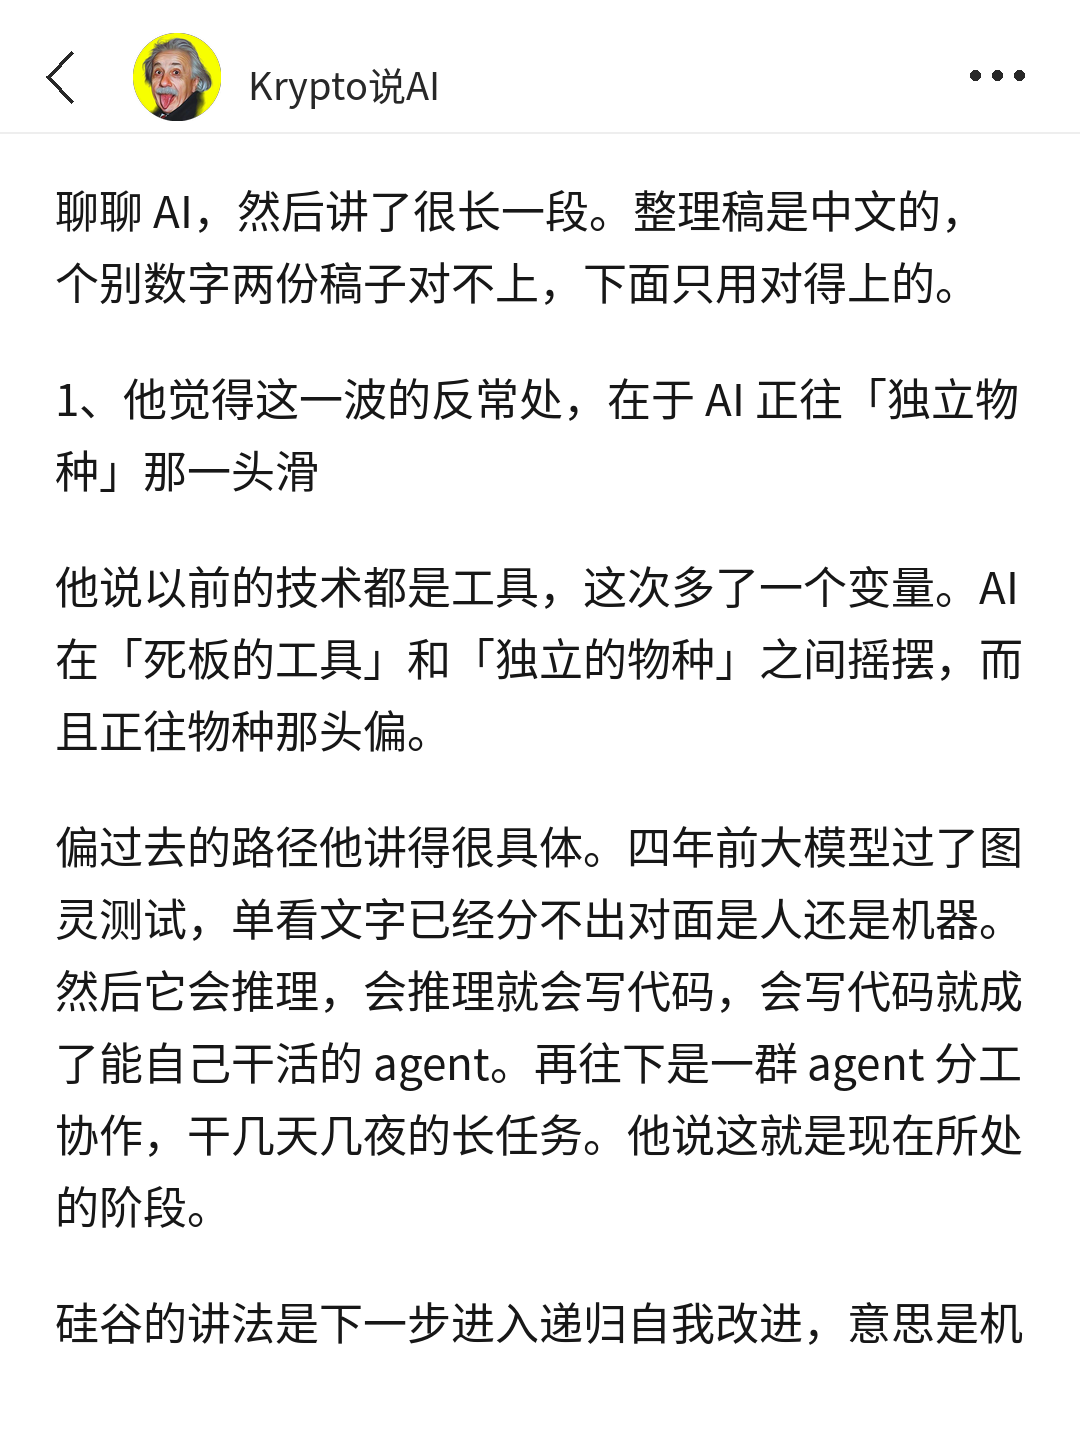
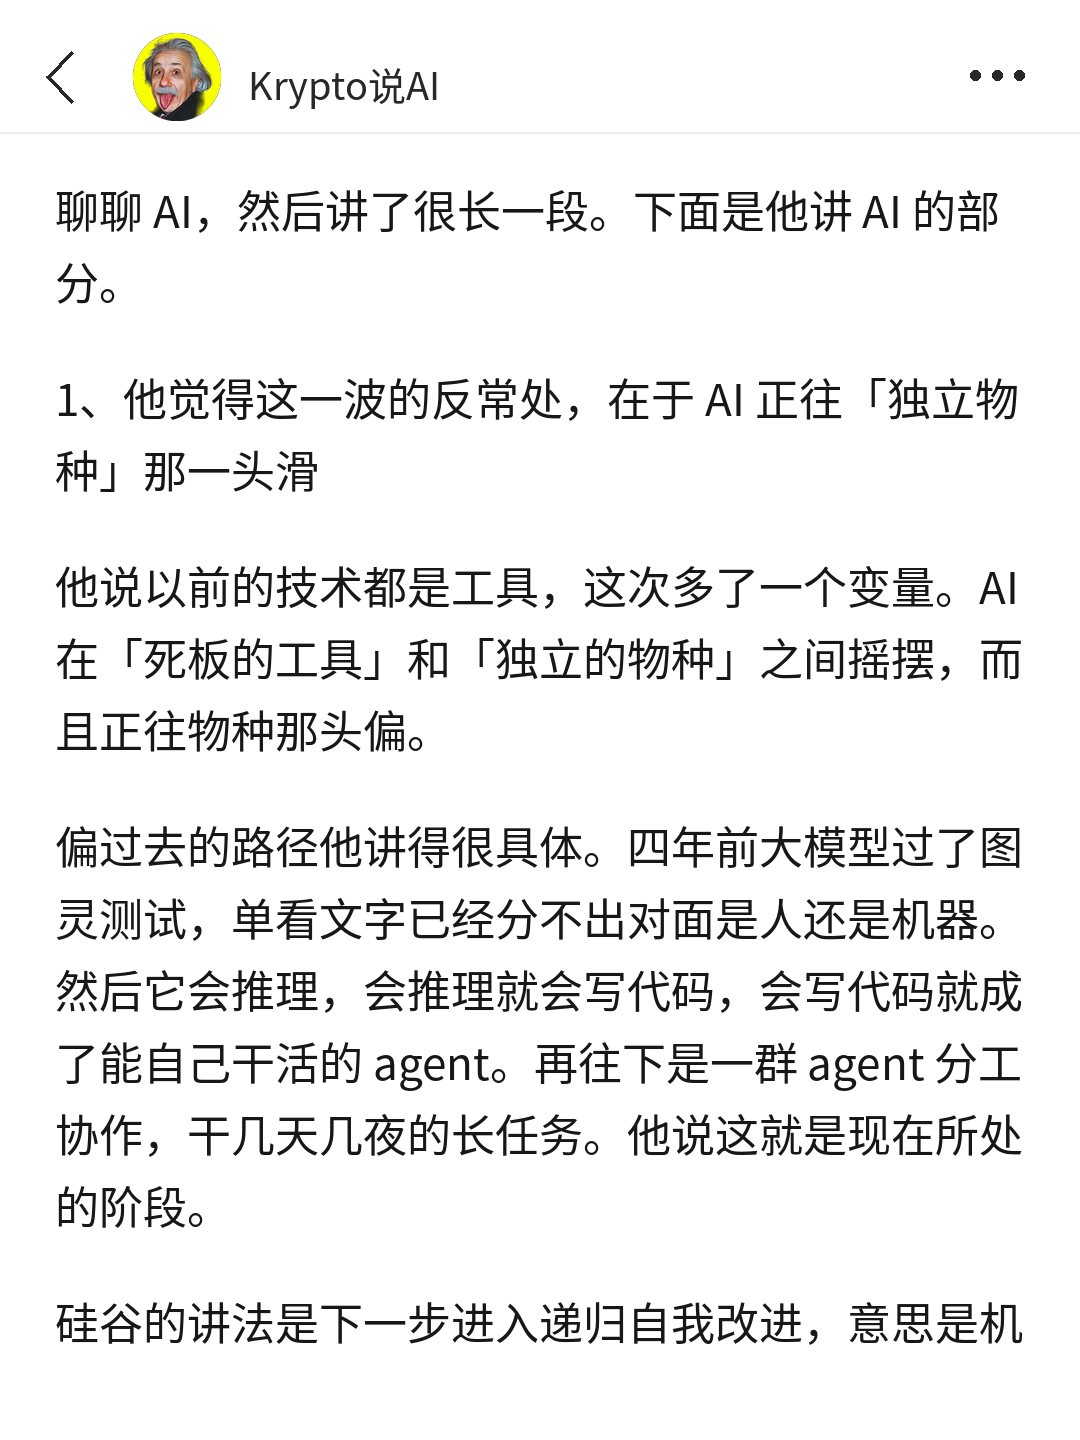
李录稿：只用用户给的整理稿，删掉「稿子对不上」那句
Claude-Session: https://claude.ai/code/session_015PCFAaTRLY2GD1Se7DV5ug

Changed region(s): [[0.55, 0.125, 0.9167, 0.2188], [0.0611, 0.1875, 0.4889, 0.2188]]

diff --git a/发布/2026-10-08_lilu-ai-tool-not-species/meme版/编辑用/draft.md b/发布/2026-10-08_lilu-ai-tool-not-species/meme版/编辑用/draft.md
@@ -14,7 +14,7 @@ account: Krypto说AI
 
 先说他是谁。1966 年生在唐山，哥大六年拿了三个学位，1997 年创办喜马拉雅资本。查理·芒格说自己一辈子把家族的钱交给外人管，只有李录一例。巴菲特投比亚迪，是他推荐的。
 
-这场对谈是 10 月 5 日哥大商学院的 Graham & Dodd 论坛。主持人本来要聊价值投资，他说顺便聊聊 AI，然后讲了很长一段。整理稿是中文的，个别数字两份稿子对不上，下面只用对得上的。
+这场对谈是 10 月 5 日哥大商学院的 Graham & Dodd 论坛。主持人本来要聊价值投资，他说顺便聊聊 AI，然后讲了很长一段。下面是他讲 AI 的部分。
 
 1、他觉得这一波的反常处，在于 AI 正往「独立物种」那一头滑
 

diff --git a/发布/2026-10-08_lilu-ai-tool-not-species/meme版/编辑用/source.md b/发布/2026-10-08_lilu-ai-tool-not-species/meme版/编辑用/source.md
@@ -321,6 +321,7 @@
 | 「主持人：好的，那么我们……」 | 材料在此处中断，保留原文 |
 | 第 2 节与第 4 节、第 7 节与第 3 节等重复段落 | 已按话题合并，两稿差异处取信息更完整者 |
 
+
 ---
 
 ## 10-07 补：李录是谁（公开资料，搜索摘要，用户要求补充）
